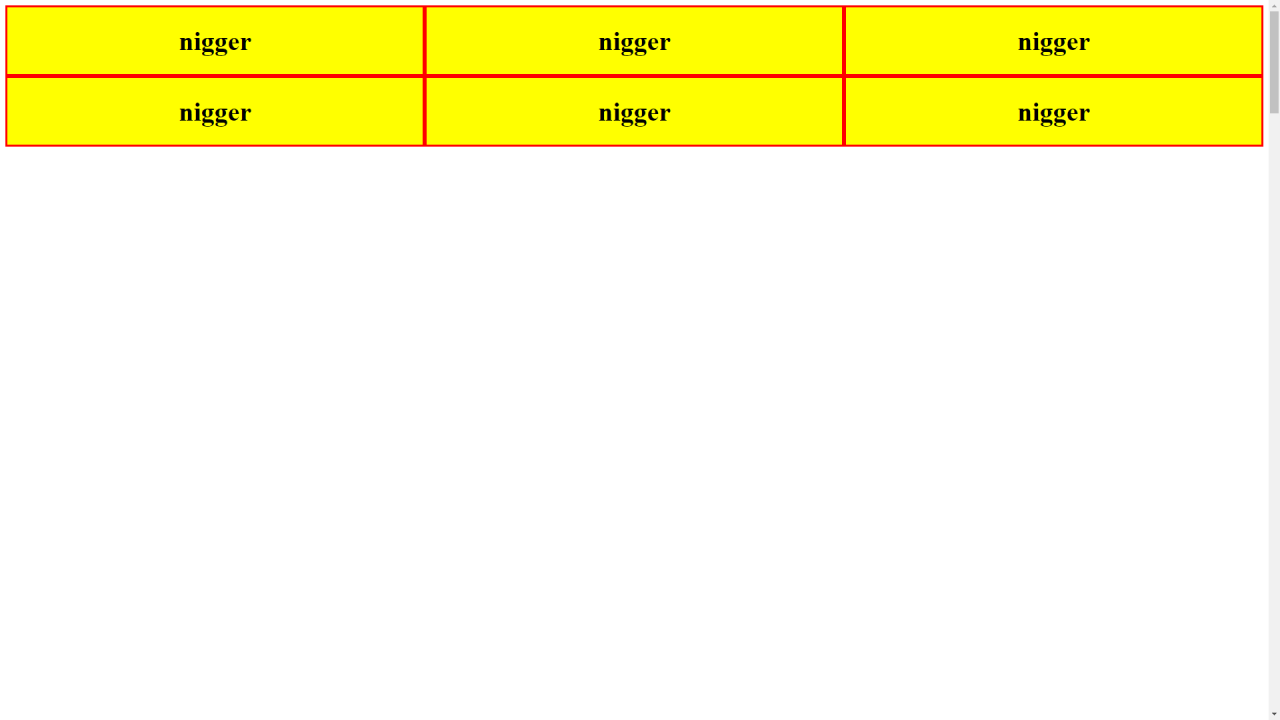
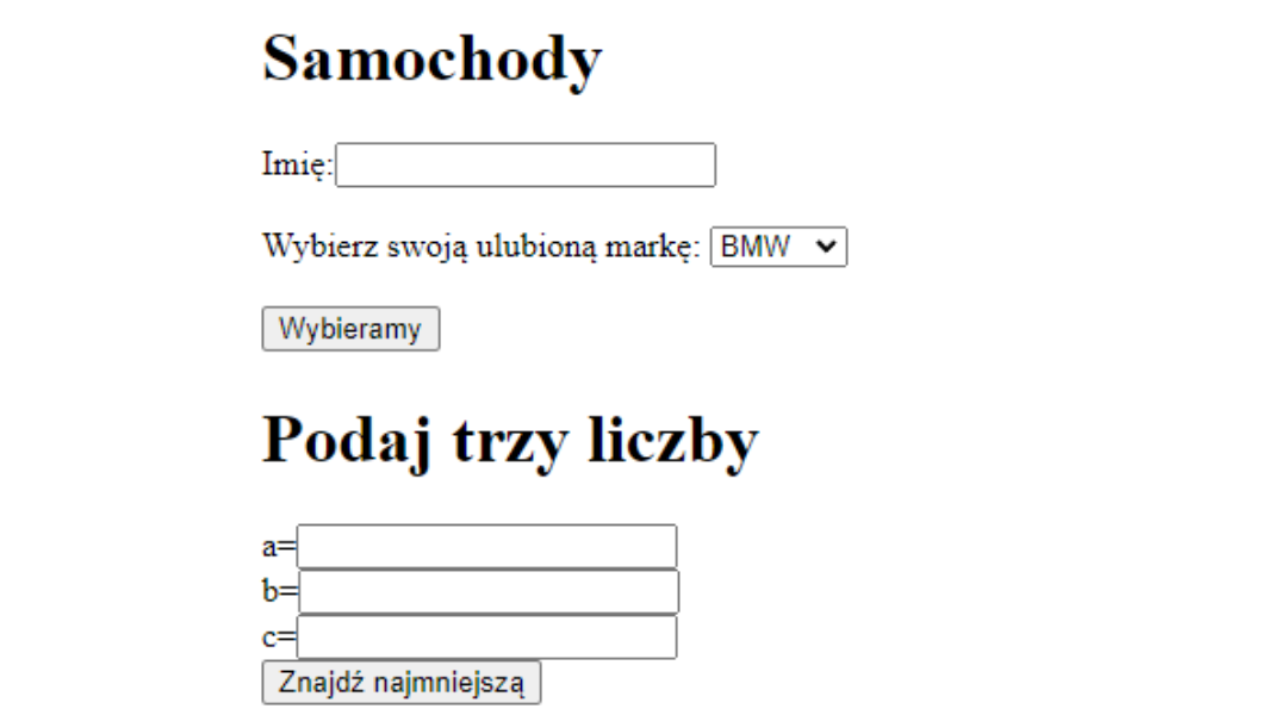
is55

diff --git a/innestrony/is55/index.html b/innestrony/is55/index.html
@@ -1,85 +1,34 @@
-<!DOCTYPE html>
-<html lang="en">
-<head>
-    <meta charset="UTF-8">
-    <meta http-equiv="X-UA-Compatible" content="IE=edge">
-    <meta name="viewport" content="width=device-width, initial-scale=1.0">
-    <title>france sucks</title>
-    <style>
-        form{
-            text-align: center;
-            width: 100%;
-            height: 150px;
-            background-color: grey;
-            line-height: 75px;
-        }
-        input{
-            border: none;
-            border-radius: 5px;
-            height: 60px;
-            background-color: darkgrey;
-            color: white;
-            font-family: Arial;
-        }
-        #jw{
-            display: grid;
-            grid-template-columns: 1fr 1fr 1fr;
-        }
-        .jw{
-            display: flex;
-            justify-content: center;
-            align-items: center;
-            font-size: 40px;
-            font-weight: bold;
-            height: 100px;
-            background-color: yellow;
-            border: 3px solid red;
-        }
-    </style>
-</head>
-<body>
-    <div id="jw">
-        <div class="jw">nigger</div>
-        <div class="jw">nigger</div>
-        <div class="jw">nigger</div>
-        <div class="jw">nigger</div>
-        <div class="jw">nigger</div>
-        <div class="jw">nigger</div>
-    </div>
-    <br /><br /><br /><br /><br /><br /><br /><br /><br /><br /><br /><br /><br /><br /><br /><br /><br /><br /><br /><br /><br /><br /><br /><br /><br /><br />
-    <br /><br /><br /><br /><br /><br /><br /><br /><br /><br /><br /><br /><br /><br /><br /><br /><br /><br /><br /><br /><br /><br /><br /><br /><br /><br />
-    <br /><br /><br /><br /><br /><br /><br /><br /><br /><br /><br /><br /><br /><br /><br /><br /><br /><br /><br /><br /><br /><br /><br /><br /><br /><br />
-    <br /><br /><br /><br /><br /><br /><br /><br /><br /><br /><br /><br /><br /><br /><br /><br /><br /><br /><br /><br /><br /><br /><br /><br /><br /><br />
-    <br /><br /><br /><br /><br /><br /><br /><br /><br /><br /><br /><br /><br /><br /><br /><br /><br /><br /><br /><br /><br /><br /><br /><br /><br /><br />
-    <br /><br /><br /><br /><br /><br /><br /><br /><br /><br /><br /><br /><br /><br /><br /><br /><br /><br /><br /><br /><br /><br /><br /><br /><br /><br />
-    <br /><br /><br /><br /><br /><br /><br /><br /><br /><br /><br /><br /><br /><br /><br /><br /><br /><br /><br /><br /><br /><br /><br /><br /><br /><br />
-    <br /><br /><br /><br /><br /><br /><br /><br /><br /><br /><br /><br /><br /><br /><br /><br /><br /><br /><br /><br /><br /><br /><br /><br /><br /><br />
-    <br /><br /><br /><br /><br /><br /><br /><br /><br /><br /><br /><br /><br /><br /><br /><br /><br /><br /><br /><br /><br /><br /><br /><br /><br /><br />
-    <br /><br /><br /><br /><br /><br /><br /><br /><br /><br /><br /><br /><br /><br /><br /><br /><br /><br /><br /><br /><br /><br /><br /><br /><br /><br />
-    <br /><br /><br /><br /><br /><br /><br /><br /><br /><br /><br /><br /><br /><br /><br /><br /><br /><br /><br /><br /><br /><br /><br /><br /><br /><br />
-    <br /><br /><br /><br /><br /><br /><br /><br /><br /><br /><br /><br /><br /><br /><br /><br /><br /><br /><br /><br /><br /><br /><br /><br /><br /><br />
-    <br /><br /><br /><br /><br /><br /><br /><br /><br /><br /><br /><br /><br /><br /><br /><br /><br /><br /><br /><br /><br /><br /><br /><br /><br /><br />
-    <br /><br /><br /><br /><br /><br /><br /><br /><br /><br /><br /><br /><br /><br /><br /><br /><br /><br /><br /><br /><br /><br /><br /><br /><br /><br />
-    <br /><br /><br /><br /><br /><br /><br /><br /><br /><br /><br /><br /><br /><br /><br /><br /><br /><br /><br /><br /><br /><br /><br /><br /><br /><br />
-    
-    
-
-
-    <form onsubmit='sus();'>
-        <input type='text' id='jebacbydgoszcz'><br />
-        <input type='submit' value='NUKE VENEZUELA'>
-    </form>
-    <script type="text/javascript">
-        function sus(){
-            a=document.getElementById("jebacbydgoszcz").value;
-            if(a=='jw'){
-                window.alert('jebać wiedźme');
-            }
-            else{
-            window.alert(a);
-            }
-        }
-    </script>
-    <!--wiedźma to taka kurwa z 3 policyjnej w kolejówce-->
-</body>
+<html>
+    <head>
+        <meta charset="utf-8"/>
+        <script src=""></script>
+    </head>
+    <body>
+        <h1>Samochody</h1>
+        <form action="wynik.php" method="POST">
+            Imię:<input type="text" name="imie"/>
+            <br/>
+            <br/>
+            Wybierz swoją ulubioną markę:
+            <select name="marka">
+                <option value="bmw">BMW</option>
+                <option value="fiat">Fiat</option>
+                <option value="toyota">Toyota</option>
+            </select>
+            <br/>
+            <br/>
+            <input type="submit" name="s" value="Wybieramy"/>
+        </form>
+        
+        <h1>Podaj trzy liczby</h1>
+                <form action="wynik.php" method="POST">
+                a=<input type="number" name="a"/>
+                <br/>
+                b=<input type="number" name="b"/>
+                <br/>
+                c=<input type="number" name="c"/>
+                <br/>
+            <input type="submit" name="l" value="Znajdź najmniejszą"/>
+        </form>
+    </body>
 </html>

diff --git a/innestrony.html b/innestrony.html
@@ -295,10 +295,16 @@
     <p><a href="zip/is54.zip" download>Pobierz</a></p></div>
 
     <div class="gallery">
-        <a target="_blank" href="innestrony/is55/index.html">
-        <img src="img/is55.webp" loading="lazy"></a>
-        <p>IS55 - J*bać kolejówke (Grid)</p>
-        <p><a href="zip/is55.zip" download>Pobierz</a></p></div>
+    <a target="_blank" href="innestrony/is55/index.html">
+    <img src="img/is55.webp" loading="lazy"></a>
+    <p>IS55 - J*bać kolejówke (Grid)</p>
+    <p><a href="zip/is55.zip" download>Pobierz</a></p></div>
+
+    <div class="gallery">
+    <a target="_blank" href="innestrony/is56/index.html">
+    <img src="img/is56.webp" loading="lazy"></a>
+    <p>IS56 - Samochody i najmniejsza liczba [PHP]</p>
+    <p><a href="zip/is56.zip" download>Pobierz</a></p></div>
 
 
 

diff --git a/230418/index.html b/230418/index.html
@@ -1,0 +1,13 @@
+<!DOCTYPE html>
+<html lang="en">
+<head>
+    <meta charset="UTF-8">
+    <meta http-equiv="X-UA-Compatible" content="IE=edge">
+    <meta name="viewport" content="width=device-width, initial-scale=1.0">
+    <title>18.04.23</title>
+    <link rel="stylesheet" href="style.css">
+</head>
+<body>
+    
+</body>
+</html>

diff --git a/innestrony/is55/wynik.php b/innestrony/is55/wynik.php
@@ -1,0 +1,23 @@
+        <?php
+            if(isSet($_POST['s']))
+            {
+                $imie=$_POST['imie'];
+                $marka=$_POST['marka'];
+                echo "$imie, twóją ulubioną marką samochodu to: $marka";
+            }
+            if(isSet($_POST['l']))
+            {
+                $a=$_POST['a'];
+                $b=$_POST['b'];
+                $c=$_POST['c'];
+                if($a<$b && $a<$c){
+                    echo $a;
+                }
+                if($b<$a && $b<$c){
+                    echo $b;
+                }
+                if($c<$b && $c<$a){
+                    echo $c;
+                }
+            }
+        ?>
